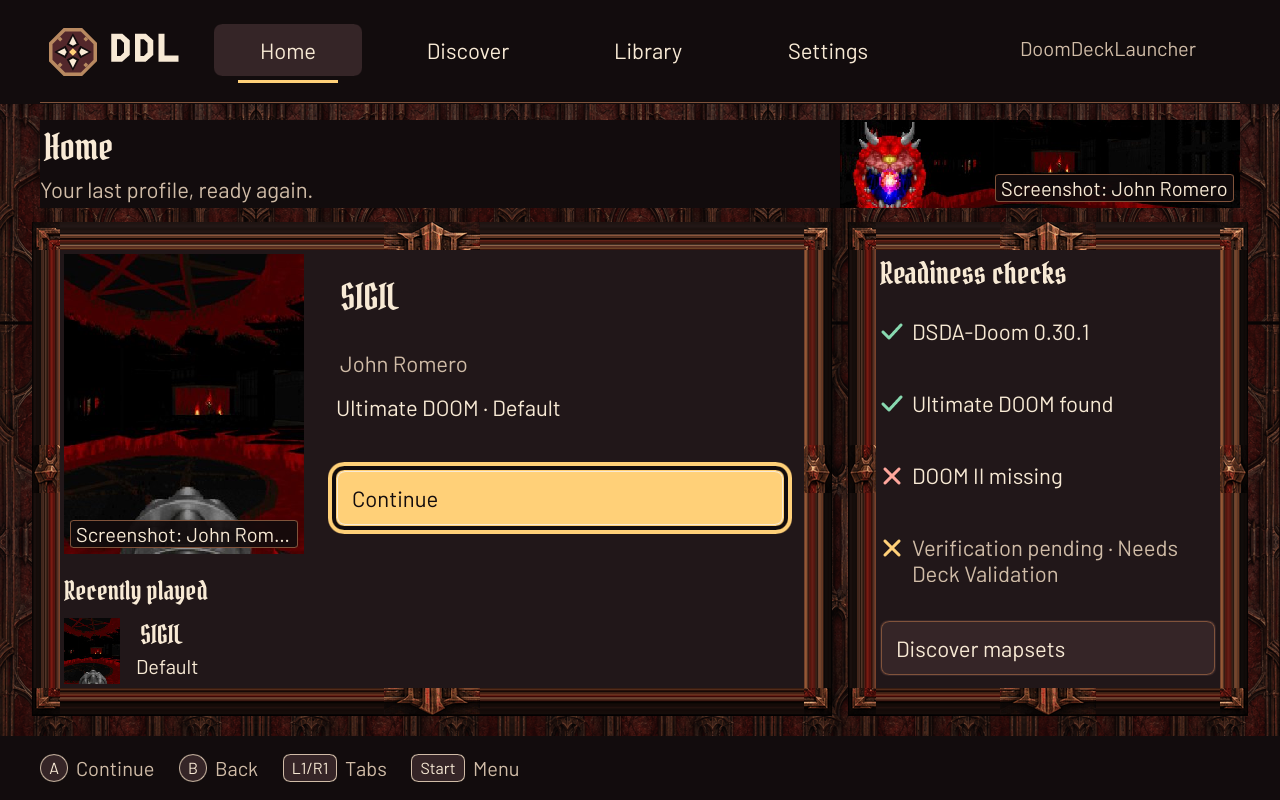
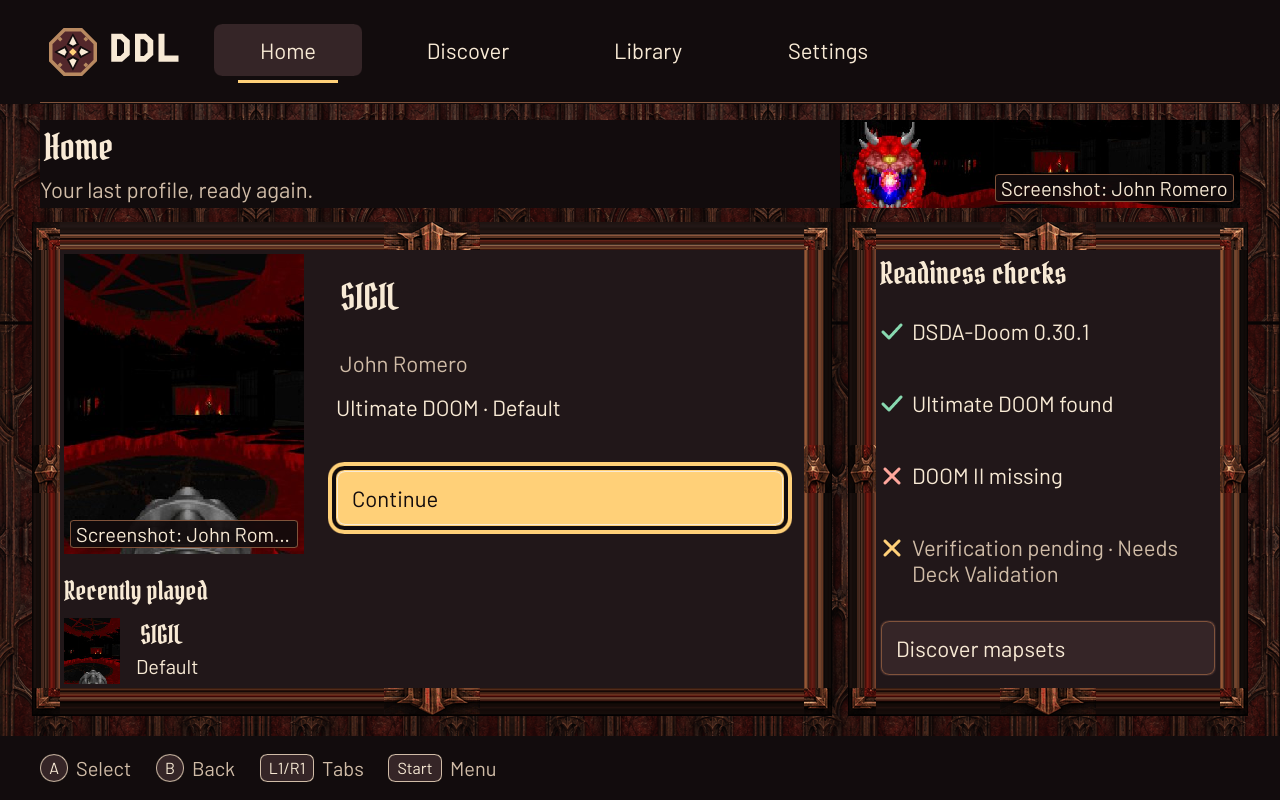
Document navigation polish and refresh headless renders

Changed region(s): [[0.0625, 0.9375, 0.4062, 1.0], [0.8125, 0.0312, 0.9062, 0.0938]]

diff --git a/docs/reports/030-navigation-feedback.md b/docs/reports/030-navigation-feedback.md
@@ -1,0 +1,37 @@
+# 030 — Navigation and feedback polish
+
+## Changes
+
+- R1: The header derives tab availability from root navigation, modal state and gameplay. Disabled tabs use a grey label, no selected surface or underline, and no focus ring. Runtime root navigation also excludes local views/dialogs; focus IDs are unchanged.
+- R2: First-run Install DSDA-Doom uses an Ember action red with the existing amber focus ring. Its focused, unfinished state slowly alternates over 1.4-second transitions (2.8-second cycle); installation, busy operations, unfocus, dialogs and gameplay stop the animation. The red action/pulse tokens have calculated label contrast of 4.64:1–5.25:1 against the dark on-accent ink.
+- R3: The reusable hint controls form a compact foreground footer. A Select and B Back stay concise; runtime hint flags choose favorite/details/import/local actions, tabs, categories and Start. Dialogs hide underlying screen actions and show A/B plus Start Confirm only where applicable.
+- R4: Removed the top-right app-name text; the window title and logo stay.
+- R5: Discover has a fixed 22-pixel gap below the header and a clipped scroll viewport. Scroll positioning reserves space for the complete focus ring above the footer.
+- R6: L2/R2 share the mapper's held-action repeat timer: immediate step, 500 ms delay, then 100 ms repeats; release/suspend stops repetition. Triggers and strip left/right wrap both ends.
+- R7: A shared show-toast callback replaces the message and restarts its three-second timer, including identical consecutive messages. Expiry fades for 300 ms; tab changes clear both current and displayed text immediately. Runtime and fixture-shell toast producers use the callback.
+
+No dependencies added. Existing D-020/D-021 tokens, bundled fonts and Ember artwork remain the visual source; this checkout has no `design/visual/` directory. No protected coordinator documents were edited.
+
+## Verification
+
+- A1: `headless::journeys::navigation_feedback` drives PreviousTab, NextTab and Up on FirstRun and Detail and checks that tabs cannot receive focus; it checks enabled navigation on Home, Discover, Library and Settings. Disabled tabs are visible in the attached FirstRun and Detail renders.
+- A2: The same production journey renders FirstRun, Home, scrolled Discover and a quit dialog at 1280×800. All five images below were opened and visually inspected. The test additionally counts foreground A/B hint pixels on Home after gameplay and in the dialog. Header-copy removal and the fixed scrolling margin are verified visually in these production renders. Pulse eligibility is tested after installation and during gameplay; subjective animation feel still needs the Deck re-check.
+- A3: `input::tests::category_hold_delays_repeats_and_release_or_suspend_stops` checks both triggers at 0, 499, 500, 599 and 600 ms, release and suspension. The existing `categories_favorites_and_screenshots` production journey now checks left/right and L2/R2 wrap in both directions, including empty Favorites.
+- A4: The production navigation test advances the headless platform clock, checks old/new/identical toast replacement, expiry after three seconds, intermediate fade opacity, final zero opacity and tab-change clearing. The clock seam is additive in `headless.rs`.
+- A5: `cargo fmt --all --check`, `cargo clippy --workspace --all-targets -- -D warnings` and `cargo test --workspace` all pass on the final implementation (532 tests, including 125 launcher tests, with zero failures). `main` was merged before final checks (already up to date at `96fe9bd`). README screenshots were regenerated with the existing headless production journeys and lossless PNG compression. Their final copies (`docs/screenshots/{home,discover,play-setup,mapset-detail}.png`) were also opened and inspected. The previous fixed-coordinate rail comparison now samples its measured new rows, accounting for both the 20-pixel viewport shift and 16-pixel focus-ring scroll.
+
+## Inspected PNGs
+
+Generated originals are under `target/headless/navigation_feedback/`; losslessly compressed copies are attached here for durable review:
+
+| View | Original inspected PNG | Attached copy |
+| --- | --- | --- |
+| First run | `target/headless/navigation_feedback/030-first-run.png` | [First run](../screenshots/030-first-run.png) |
+| Home | `target/headless/navigation_feedback/030-home.png` | [Home](../screenshots/030-home.png) |
+| Discover, scrolled | `target/headless/navigation_feedback/030-discover-scrolled.png` | [Scrolled Discover](../screenshots/030-discover-scrolled.png) |
+| Dialog | `target/headless/navigation_feedback/030-dialog.png` | [Dialog](../screenshots/030-dialog.png) |
+| Mapset detail | `target/headless/navigation_feedback/030-detail.png` | [Detail](../screenshots/030-detail.png) |
+
+## Open items
+
+**Needs Deck Validation:** re-check S4 and S2 in Gaming Mode, including trigger repeat feel, focused pulse subtlety and toast timing. No implementation requirements remain open; no DSDA-Doom, AppImage, Steam or WAD compatibility facts were introduced.
